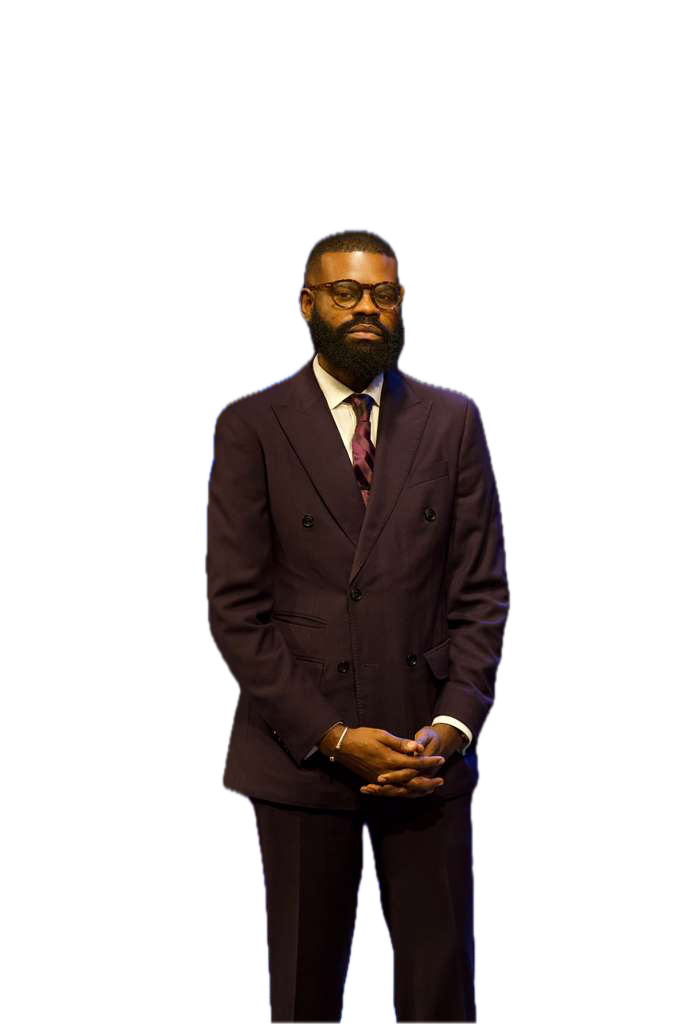
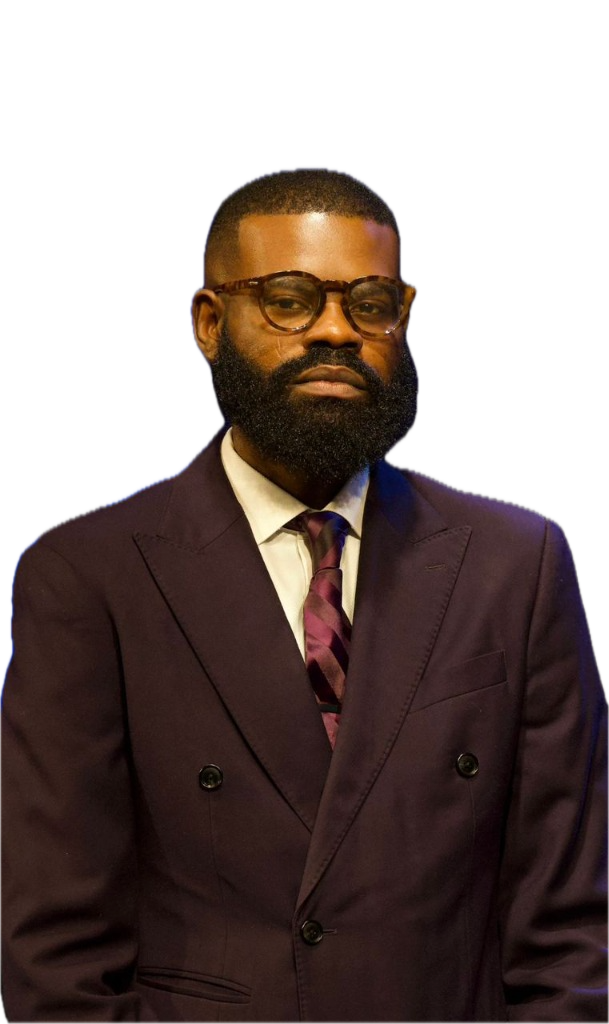
feat: use background-removed hero photo, update gallery with real photos, update Gumroad link and disable pending books

diff --git a/src/App.jsx b/src/App.jsx
@@ -1,6 +1,10 @@
 import React, { useState, useEffect, useRef } from "react";
 import portraitImg from "./assets/portrait.png";
 import "./App.css";
+import gallery1 from "./assets/gallery-1.jpg";
+import gallery2 from "./assets/gallery-2.jpg";
+import gallery3 from "./assets/gallery-3.jpg";
+import gallery4 from "./assets/gallery-4.jpg";
 
 // Data declarations matching the exact content of the reference site
 const nav = [
@@ -179,13 +183,10 @@ const press = [
 ];
 
 const gallery = [
-  { label: "Featured moment", desc: "Add primary hero photo here", featured: true },
-  { label: "Speaking — corporate event", desc: "", featured: false },
-  { label: "Ministry — Sunday service", desc: "", featured: false },
-  { label: "Metamorphosis Conference", desc: "", featured: false },
-  { label: "Foundry cohort session", desc: "", featured: false },
-  { label: "International ministry", desc: "", featured: false },
-  { label: "Author — book signing", desc: "", featured: false }
+  { label: "Keynote Address", desc: "Global Leadership Summit", image: gallery1, featured: true },
+  { label: "Ministry & Commissioning", desc: "Sunday Service", image: gallery4, featured: false },
+  { label: "Corporate Advisory", desc: "Boardroom Strategy Session", image: gallery2, featured: false },
+  { label: "Transformational Leadership", desc: "The Foundry Cohort", image: gallery3, featured: false }
 ];
 
 const products = [
@@ -197,8 +198,8 @@ const products = [
     title: "From Potential to Purpose",
     desc: "Five transformational modules that move you from buried potential to expressed, legacy-building purpose. The Foundry Leadership Institute flagship curriculum.",
     formats: [
-      { type: "Digital PDF — Instant delivery", price: "$35.00", cta: "Buy Digital", href: "https://gumroad.com", disabled: false, solid: true },
-      { type: "Physical Copy — Ships Worldwide", price: "$49.00", cta: "Buy Physical", href: "https://kdp.amazon.com", disabled: false, solid: false }
+      { type: "Digital PDF — Instant delivery", price: "$35.00", cta: "Buy Digital", href: "https://michaeladejana.gumroad.com/l/tysgx", disabled: false, solid: true },
+      { type: "Physical Copy — Ships Worldwide", price: "$49.00", cta: "Coming Soon", href: "#", disabled: true, solid: false }
     ],
     coverBg: "linear-gradient(160deg,#7A1E2E 0%,#2B0A14 50%,#0E0A08 100%)",
     coming: false
@@ -211,11 +212,11 @@ const products = [
     title: "The Brand Builder Journal",
     desc: "90 days of structured daily entries, weekly reviews and monthly milestone letters — for entrepreneurs and marketplace leaders building something that lasts.",
     formats: [
-      { type: "Digital PDF — Print at Home", price: "$18.00", cta: "Buy Digital", href: "https://gumroad.com", disabled: false, solid: true },
-      { type: "Physical Copy — Ships Worldwide", price: "$45.00", cta: "Buy Physical", href: "https://kdp.amazon.com", disabled: false, solid: false }
+      { type: "Digital PDF — Print at Home", price: "$18.00", cta: "Coming Soon", href: "#", disabled: true, solid: true },
+      { type: "Physical Copy — Ships Worldwide", price: "$45.00", cta: "Coming Soon", href: "#", disabled: true, solid: false }
     ],
     coverBg: "linear-gradient(160deg,#1D6B4F 0%,#0A3D28 50%,#041A10 100%)",
-    coming: false
+    coming: true
   },
   {
     badge: "",
@@ -1010,21 +1011,28 @@ export default function App() {
                     key={idx}
                     className={`gallery-item ${gal.featured ? "featured" : ""}`}
                   >
-                    <div className="gallery-item-label">
-                      {gal.label}
-                      {gal.desc && (
-                        <>
-                          <br />
-                          {gal.desc}
-                        </>
-                      )}
-                    </div>
+                    {gal.image ? (
+                      <>
+                        <img src={gal.image} alt={gal.label} />
+                        <div className="gallery-item-info">
+                          <h4 className="gallery-item-title">{gal.label}</h4>
+                          <span className="gallery-item-desc">{gal.desc}</span>
+                        </div>
+                      </>
+                    ) : (
+                      <div className="gallery-item-label">
+                        {gal.label}
+                        {gal.desc && (
+                          <>
+                            <br />
+                            {gal.desc}
+                          </>
+                        )}
+                      </div>
+                    )}
                   </div>
                 ))}
               </div>
-              <p style={{ fontSize: ".8rem", color: "rgba(247,243,238,.3)", marginTop: "1.5rem" }}>
-                Replace gallery placeholders with real photos. Recommended: mix of ministry, speaking, corporate and personal moments.
-              </p>
             </>
           )}
         </div>

diff --git a/src/App.css b/src/App.css
@@ -86,3 +86,51 @@
     grid-template-columns: 1fr;
   }
 }
+
+/* ─── Gallery Image Styling ─── */
+.gallery-item img {
+  width: 100%;
+  height: 100%;
+  object-fit: cover;
+  transition: transform 0.5s cubic-bezier(0.25, 0.46, 0.45, 0.94);
+}
+
+.gallery-item:hover img {
+  transform: scale(1.05);
+}
+
+.gallery-item-info {
+  position: absolute;
+  inset: 0;
+  background: linear-gradient(to top, rgba(6, 3, 4, 0.95) 0%, rgba(6, 3, 4, 0.3) 60%, transparent 100%);
+  opacity: 0;
+  transition: opacity 0.3s ease;
+  display: flex;
+  flex-direction: column;
+  justify-content: flex-end;
+  padding: 1.5rem;
+  z-index: 2;
+  text-align: left;
+}
+
+.gallery-item:hover .gallery-item-info {
+  opacity: 1;
+}
+
+.gallery-item-title {
+  font-family: var(--serif);
+  color: var(--ivory);
+  font-size: 1.15rem;
+  font-weight: 500;
+  margin-bottom: 0.2rem;
+  line-height: 1.2;
+}
+
+.gallery-item-desc {
+  color: var(--light-gold);
+  font-size: 0.72rem;
+  letter-spacing: 0.12em;
+  text-transform: uppercase;
+  font-weight: 400;
+}
+

diff --git a/src/BooksPage.jsx b/src/BooksPage.jsx
@@ -10,8 +10,8 @@ const products = [
     title: "From Potential to Purpose",
     desc: "Five transformational modules that move you from buried potential to expressed, legacy-building purpose. The Foundry Leadership Institute flagship curriculum.",
     formats: [
-      { type: "Digital PDF — Instant delivery", price: "$35.00", cta: "Buy Digital", href: "https://gumroad.com", disabled: false, solid: true },
-      { type: "Physical Copy — Ships Worldwide", price: "$49.00", cta: "Buy Physical", href: "https://kdp.amazon.com", disabled: false, solid: false }
+      { type: "Digital PDF — Instant delivery", price: "$35.00", cta: "Buy Digital", href: "https://michaeladejana.gumroad.com/l/tysgx", disabled: false, solid: true },
+      { type: "Physical Copy — Ships Worldwide", price: "$49.00", cta: "Coming Soon", href: "#", disabled: true, solid: false }
     ],
     coverBg: "linear-gradient(160deg,#7A1E2E 0%,#2B0A14 50%,#0E0A08 100%)",
     coming: false
@@ -24,11 +24,11 @@ const products = [
     title: "The Brand Builder Journal",
     desc: "90 days of structured daily entries, weekly reviews and monthly milestone letters — for entrepreneurs and marketplace leaders building something that lasts.",
     formats: [
-      { type: "Digital PDF — Print at Home", price: "$18.00", cta: "Buy Digital", href: "https://gumroad.com", disabled: false, solid: true },
-      { type: "Physical Copy — Ships Worldwide", price: "$45.00", cta: "Buy Physical", href: "https://kdp.amazon.com", disabled: false, solid: false }
+      { type: "Digital PDF — Print at Home", price: "$18.00", cta: "Coming Soon", href: "#", disabled: true, solid: true },
+      { type: "Physical Copy — Ships Worldwide", price: "$45.00", cta: "Coming Soon", href: "#", disabled: true, solid: false }
     ],
     coverBg: "linear-gradient(160deg,#1D6B4F 0%,#0A3D28 50%,#041A10 100%)",
-    coming: false
+    coming: true
   },
   {
     badge: "",